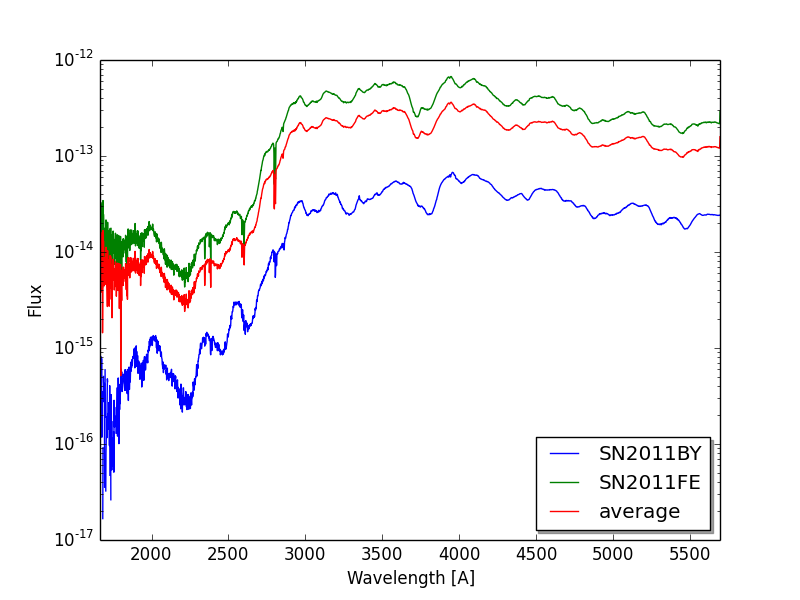
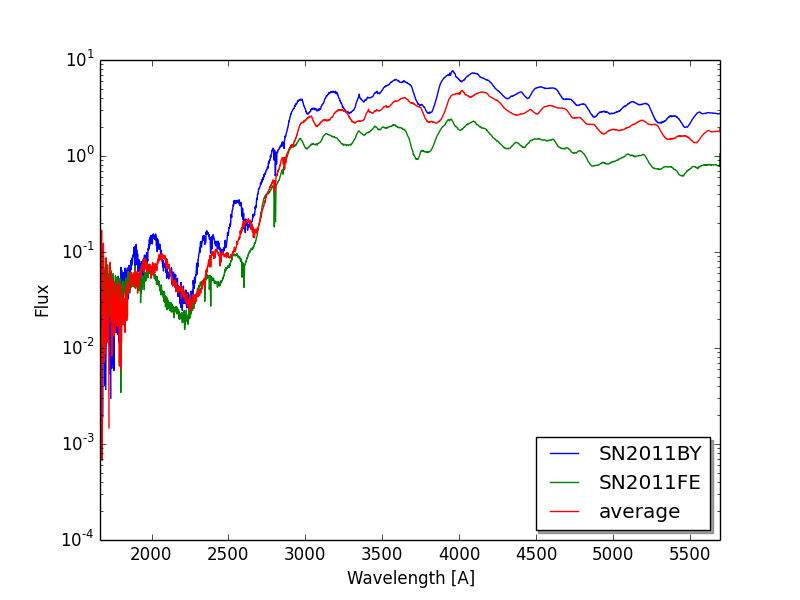
normalized

diff --git a/personal/Yinghe/spectra.py b/personal/Yinghe/spectra.py
@@ -31,18 +31,20 @@ def ReadIn(file):
 # Function: import into an array, and find the mean value
 def ImpArr(d) :
     walen = []
-    flux = []
-    fluxavg = []            
+    flux = []           
     for i in range(len(d)) :
         walen.append(d[i][0])
         flux.append(d[i][1])
+    med = np.median(flux)
+    print med
+    flux = flux/med
 #    print flux
-    avg = float(sum(flux))/len(flux)
-    print avg
-    for i in range(len(flux)) :
-        fluxavg.append(flux[i]-avg)
+#    avg = float(sum(flux))/len(flux)
+#    print avg
+#    for i in range(len(flux)) :
+#        fluxavg.append(flux[i]-avg)
 #        print fluxavg[i]
-    return [walen,flux,fluxavg]
+    return [walen,flux]
     
 
 # main function (can be updated)        
@@ -56,7 +58,7 @@ arr2 = ImpArr(d2)
 # For two-case only. Still working on how to do multi-cases...
 mini = max(arr1[0][0],arr2[0][0])
 maxi = min(arr1[0][len(arr1[0])-1],arr2[0][len(arr2[0])-1]) 
-print mini,maxi
+#print mini,maxi
 for i in range(len(arr1[0])) : # what if the range is overlapped?
     if arr1[0][i] == mini : 
         minum = i
@@ -69,6 +71,8 @@ avwalen= arr1[0][minum:manum+1]
 #print avwalen
 for k in range(len(avwalen)) :
     avflux.append((arr1[1][k]+arr2[1][k])/2)
+#print avfluxnorm
+
 # plotting spectra
 f1 = plt.figure(1)
 ax = f1.add_subplot(111)
@@ -83,3 +87,17 @@ ax.set_yscale('log')
 legend = ax.legend(loc='lower right', shadow=True)
 f1.show()
 f1.savefig('spectra.png')
+
+# plotting normalized spectra
+"""f2 = plt.figure(2)
+ax2 = f2.add_subplot(111)
+plot4 = ax2.plot(arr1[0],arr1[2],label = 'SN2011BY')
+plot5 = ax2.plot(arr2[0],arr2[2], label = 'SN2011FE')
+plot6 = ax2.plot(avwalen,avfluxnorm, label = 'average')
+#l = plt.axhline(y=0,color = 'r')
+plt.xlabel('Wavelength [A]')
+plt.xlim(mini,maxi)
+ax2.set_yscale('log')
+plt.ylabel('Normalized Flux')
+f2.show()
+f2.savefig('spectra2.png')"""
